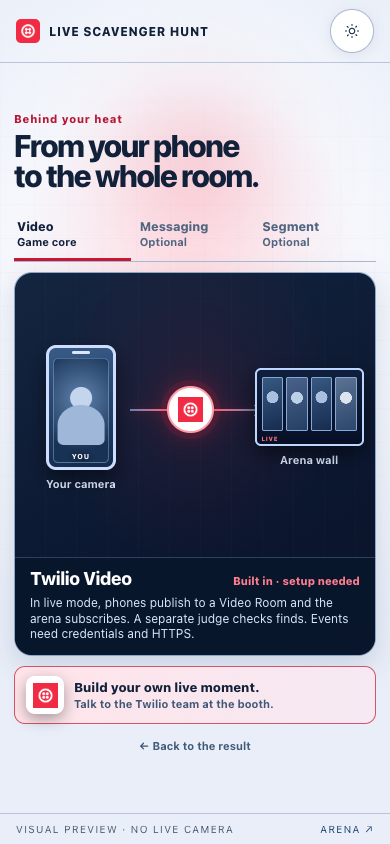
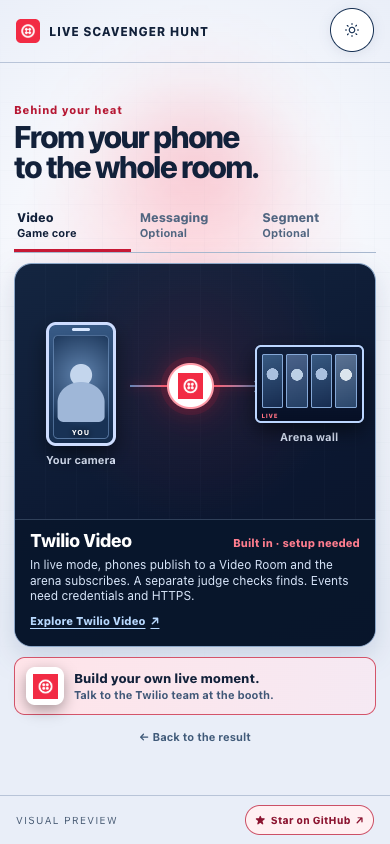
Add product learn-more and GitHub star links with click metrics

diff --git a/app/public/player.js b/app/public/player.js
@@ -8,6 +8,8 @@ const isResultDemo = ['win', 'lose', 'tie', 'no-match', 'build'].includes(demoMo
 const screen = document.getElementById('screen');
 const eventName = document.getElementById('eventName');
 const modeLabel = document.getElementById('modeLabel');
+const arenaFooterLink = document.getElementById('arenaFooterLink');
+const githubFooterLink = document.getElementById('githubFooterLink');
 const sessionDialog = document.getElementById('sessionDialog');
 for (const link of document.querySelectorAll('[data-arena-link]')) {
   link.href = arenaUrl;
@@ -62,8 +64,8 @@ const rosterPlayer = () => visibleRoster().find(entry => entry.id === app.player
 const hasSlot = () => Boolean(rosterPlayer()?.slot) && !['queued', 'left'].includes(app.player?.status);
 const phase = () => app.state?.phase || 'lobby';
 
-async function request(path, { method = 'GET', body, auth = false, headers = {} } = {}) {
-  const options = { method, headers: { ...headers }, credentials: 'same-origin' };
+async function request(path, { method = 'GET', body, auth = false, headers = {}, keepalive = false } = {}) {
+  const options = { method, headers: { ...headers }, credentials: 'same-origin', keepalive };
   if (auth && app.token) options.headers.Authorization = `Bearer ${app.token}`;
   if (body !== undefined) {
     if (body instanceof Blob) {
@@ -87,13 +89,14 @@ async function request(path, { method = 'GET', body, auth = false, headers = {} 
   return value;
 }
 
-function activity(type) {
+function activity(type, properties = {}) {
   if (isResultDemo) return;
   const onceKey = type === 'landing_opened' ? type : type === 'result_viewed' ? `${type}:${app.state?.heat}` : null;
   if (onceKey && app.activity.has(onceKey)) return;
   if (onceKey) app.activity.add(onceKey);
-  request('/activity', { method: 'POST', body: { type } }).catch(() => {});
+  request('/activity', { method: 'POST', body: { type, ...properties }, keepalive: true }).catch(() => {});
 }
+githubFooterLink.addEventListener('click', () => activity('github_cta_opened'));
 
 function applyState(payload) {
   if (!payload || !payload.state) return;
@@ -210,6 +213,7 @@ function resultMarkup(winners, heat) {
 const buildProducts = {
   video: {
     name: 'Twilio Video',
+    url: 'https://www.twilio.com/en-us/video',
     status: 'Built in · setup needed',
     detail: 'In live mode, phones publish to a Video Room and the arena subscribes. A separate judge checks finds. Events need credentials and HTTPS.',
     from: 'Your camera',
@@ -219,6 +223,7 @@ const buildProducts = {
   },
   messaging: {
     name: 'Twilio Messaging',
+    url: 'https://www.twilio.com/en-us/messaging/apis/programmable-messaging-api',
     status: 'Optional integration',
     detail: 'Spectators can vote by SMS or WhatsApp. Incoming replies reach the game as ballots through a webhook.',
     from: 'Crowd reply',
@@ -228,6 +233,7 @@ const buildProducts = {
   },
   segment: {
     name: 'Twilio Segment',
+    url: 'https://www.twilio.com/en-us/segment',
     status: 'Optional integration',
     detail: 'Play and interaction events can flow to Segment. The game’s own event report works without it.',
     from: 'Game signals',
@@ -249,7 +255,8 @@ function buildMarkup(lead) {
   const expert = lead.enabled && lead.expertEnabled ? `<button type="button" class="build-expert ${guide ? '' : 'is-primary'}" data-action="expert">Request a Twilio expert <span aria-hidden="true">↗</span></button>` : '';
   const replay = isResultDemo ? '<button type="button" class="build-replay" data-action="demo-result">← Back to the result</button>' : '<button type="button" class="build-replay" data-action="replay">Play another heat</button>';
   const invitation = guide || expert ? '<p>Want to make a moment like this?</p>' : '<div class="build-booth-invite"><span class="build-booth-mark"><img src="/assets/twilio-bug-official.png" alt=""></span><span><strong>Build your own live moment.</strong><small>Talk to the Twilio team at the booth.</small></span></div>';
-  return `<div class="build-story"><div class="build-intro"><p class="build-kicker">Behind your heat</p><h1>From your phone<br>to the whole room.</h1></div><div class="build-tabs" role="group" aria-label="Explore Twilio products">${tabs}</div><section class="build-panel" data-product="${app.buildProduct}" aria-label="${product.name} explanation">${flow}<div class="build-panel-copy"><div class="build-panel-heading"><h2>${product.name}</h2><span>${product.status}</span></div><p>${product.detail}</p></div></section><div class="build-next ${guide || expert ? '' : 'is-booth-only'}">${invitation}${guide}${expert}${replay}</div></div>`;
+  const learnMore = `<a class="build-product-link" data-twilio-product="${app.buildProduct}" href="${product.url}" target="_blank" rel="noopener noreferrer" aria-label="Explore ${product.name} on Twilio (opens in a new tab)">Explore ${product.name} <span aria-hidden="true">↗</span></a>`;
+  return `<div class="build-story"><div class="build-intro"><p class="build-kicker">Behind your heat</p><h1>From your phone<br>to the whole room.</h1></div><div class="build-tabs" role="group" aria-label="Explore Twilio products">${tabs}</div><section class="build-panel" data-product="${app.buildProduct}" aria-label="${product.name} explanation">${flow}<div class="build-panel-copy"><div class="build-panel-heading"><h2>${product.name}</h2><span>${product.status}</span></div><p>${product.detail}</p>${learnMore}</div></section><div class="build-next ${guide || expert ? '' : 'is-booth-only'}">${invitation}${guide}${expert}${replay}</div></div>`;
 }
 
 function preview() {
@@ -301,7 +308,13 @@ function render(force = false) {
   const customEventName = String(app.event.name || '').trim();
   eventName.textContent = customEventName.toUpperCase() === 'LIVE SCAVENGER HUNT' ? '' : customEventName;
   eventName.hidden = !eventName.textContent;
-  modeLabel.textContent = isResultDemo ? 'Visual preview · no live camera' : app.event.mediaMode === 'twilio' ? 'Powered by Twilio Video' : app.event.mediaMode === 'rehearsal' ? 'Local rehearsal · camera snapshots' : 'Waiting for booth setup';
+  const postGame = ['result', 'complete', 'build', 'lead', 'thanks'].includes(view);
+  const fullModeLabel = isResultDemo ? 'Visual preview · no live camera' : app.event.mediaMode === 'twilio' ? 'Powered by Twilio Video' : app.event.mediaMode === 'rehearsal' ? 'Local rehearsal · camera snapshots' : 'Waiting for booth setup';
+  const shortModeLabel = isResultDemo ? 'Visual preview' : app.event.mediaMode === 'twilio' ? 'Twilio Video' : app.event.mediaMode === 'rehearsal' ? 'Local rehearsal' : 'Booth setup';
+  modeLabel.textContent = postGame ? shortModeLabel : fullModeLabel;
+  modeLabel.setAttribute('aria-label', fullModeLabel);
+  arenaFooterLink.hidden = postGame;
+  githubFooterLink.hidden = !postGame;
   $('leaveButton').hidden = isResultDemo || !['queued', 'waiting', 'countdown', 'hunt', 'review'].includes(view);
 
   if (view === 'intro') {
@@ -666,6 +679,11 @@ screen.addEventListener('change', event => {
   if (event.target.name === 'marketingOptIn') app.leadDraft.marketingOptIn = event.target.checked;
 });
 screen.addEventListener('click', async event => {
+  const productLink = event.target.closest('[data-twilio-product]');
+  if (productLink) {
+    activity('twilio_product_link_opened', { product: productLink.dataset.twilioProduct });
+    return;
+  }
   const action = event.target.closest('[data-action]')?.dataset.action;
   if (!action) return;
   try {

diff --git a/app/public/player-build.css b/app/public/player-build.css
@@ -10,7 +10,7 @@
 .player-page .build-tab small { font-size: 11px; font-weight: 700; line-height: 1.2; }
 .player-page .build-tab.is-active { color: var(--paper); border-bottom-color: var(--red); }
 .player-page .build-tab:hover { color: #fff; }
-.player-page .build-tab:focus-visible, .player-page .build-guide:focus-visible, .player-page .build-expert:focus-visible, .player-page .build-replay:focus-visible { outline: 3px solid var(--red); outline-offset: 2px; }
+.player-page .build-tab:focus-visible, .player-page .build-guide:focus-visible, .player-page .build-expert:focus-visible, .player-page .build-replay:focus-visible, .player-page .build-product-link:focus-visible { outline: 3px solid var(--red); outline-offset: 2px; }
 .player-page .build-panel { flex: 1 1 auto; min-height: 0; display: flex; flex-direction: column; overflow: hidden; margin-top: 10px; border: 1px solid #9ebbe144; border-radius: 18px; background: linear-gradient(155deg, #142540 0%, #0b1730 62%, #0b1428 100%); box-shadow: inset 0 1px #ffffff1a, 0 16px 35px #0004; }
 .player-page .build-flow { flex: 1 1 auto; min-height: 0; display: flex; align-items: center; justify-content: space-between; padding: 13px 17px 8px; background: radial-gradient(ellipse 45% 68% at 50% 43%, #ef223a19, transparent 88%), repeating-linear-gradient(90deg, transparent 0, transparent 30px, #b7d0fa0a 31px); }
 .player-page .build-flow-end { flex: 0 0 30%; min-width: 0; min-height: 0; height: 100%; margin: 0; display: flex; flex-direction: column; align-items: center; justify-content: center; gap: 8px; }
@@ -46,6 +46,8 @@
 .player-page .build-panel-heading span { flex: none; color: #ff7d8e; font-size: 11px; font-weight: 800; line-height: 1.1; }
 .player-page .build-panel:not([data-product="video"]) .build-panel-heading span { color: #9ac9ff; }
 .player-page .build-panel-copy p { margin: 6px 0 0; color: #d7e5f9; font-size: 12px; line-height: 1.3; }
+.player-page .build-product-link { display: inline-flex; align-items: center; gap: 5px; min-height: 24px; margin-top: 5px; color: #b8d9ff; font-size: 11px; font-weight: 800; line-height: 1.15; text-decoration: underline; text-underline-offset: 3px; }
+.player-page .build-product-link:hover { color: #fff; }
 .player-page .build-next { flex: none; display: grid; grid-template-columns: minmax(0, 1fr) auto; align-items: center; column-gap: 10px; row-gap: 4px; margin-top: 10px; }
 .player-page .build-next p { grid-column: 1 / -1; margin: 0 0 2px; color: var(--paper); font-size: 13px; font-weight: 800; }
 .player-page .build-booth-invite { grid-column: 1 / -1; min-width: 0; display: flex; align-items: center; gap: 10px; padding: 9px 11px; border: 1px solid #ff6a7c88; border-radius: 11px; background: linear-gradient(105deg, #8e193743, #4f17372d); }
@@ -71,7 +73,7 @@
   .player-page .build-flow-end { gap: 3px; }.player-page .build-flow-end figcaption { font-size: 10px; }
   .player-page .build-phone { width: 43px; }.player-page .build-arena-mini { width: 72px; }
   .player-page .build-message-mini, .player-page .build-ballot-mini, .player-page .build-events-mini, .player-page .build-chart-mini { scale: .86; }
-  .player-page .build-panel-copy { padding: 7px 10px 8px; }.player-page .build-panel-heading h2 { font-size: 15px; }.player-page .build-panel-heading span { font-size: 11px; }.player-page .build-panel-copy p { margin-top: 4px; font-size: 11.5px; line-height: 1.28; }
+  .player-page .build-panel-copy { padding: 7px 10px 8px; }.player-page .build-panel-heading h2 { font-size: 15px; }.player-page .build-panel-heading span { font-size: 11px; }.player-page .build-panel-copy p { margin-top: 4px; font-size: 11.5px; line-height: 1.28; }.player-page .build-product-link { min-height: 20px; margin-top: 3px; font-size: 10.5px; }
   .player-page .build-next { margin-top: 6px; row-gap: 2px; }.player-page .build-next p { font-size: 12px; }.player-page .build-guide, .player-page .build-expert.is-primary { min-height: 42px; padding-block: 7px; font-size: 12px; }.player-page .build-expert, .player-page .build-replay { min-height: 28px; font-size: 11.5px; }
   .player-page .build-booth-invite { gap:8px; padding:6px 8px; }.player-page .build-booth-mark { width:31px; height:31px; border-radius:7px; }.player-page .build-booth-mark img { width:21px; height:21px; }.player-page .build-booth-invite strong { font-size:12px; }.player-page .build-booth-invite small { font-size:10px; }
 }

diff --git a/app/public/metrics.js b/app/public/metrics.js
@@ -124,7 +124,7 @@ function uniquePeople(rows, keys = ["participantId", "playerId", "sessionId"]) {
   });
   return people.size;
 }
-const engagementTypes = new Set(["player_joined", "result_viewed", "cta_opened", "lead_form_opened", "lead_submitted", "vote_accepted"]);
+const engagementTypes = new Set(["player_joined", "result_viewed", "cta_opened", "guide_cta_opened", "expert_cta_opened", "twilio_product_link_opened", "github_cta_opened", "lead_form_opened", "lead_submitted", "vote_accepted"]);
 function buildSummary(records, leads) {
   const byType = type => records.filter(row => row.type === type);
   const landings = byType("landing_opened"), joins = byType("player_joined"), heatStarts = byType("heat_started"), heatEnds = byType("heat_completed");
@@ -170,9 +170,18 @@ function buildSummary(records, leads) {
   });
   const durations = verified.map(row => Number(row.properties.timeToMatchMs)).filter(value => Number.isFinite(value) && value >= 0);
   const uniqueVisitors = uniquePeople(landings), uniquePlayers = uniquePeople(joins);
+  const productLinkRows = byType("twilio_product_link_opened");
+  const twilioProductLinkClicks = productLinkRows.length;
+  const twilioProductLinkClicksByProduct = { video: 0, messaging: 0, segment: 0 };
+  productLinkRows.forEach(row => {
+    const product = row.properties.product;
+    if (Object.hasOwn(twilioProductLinkClicksByProduct, product)) twilioProductLinkClicksByProduct[product]++;
+  });
+  const githubRepoClicks = byType("github_cta_opened").length;
   return {
     totalEvents: records.length, uniqueVisitors, uniquePlayers,
     engagementActions: records.filter(row => engagementTypes.has(row.type)).length,
+    twilioProductLinkClicks, twilioProductLinkClicksByProduct, githubRepoClicks,
     playerEntries,
     heatsCompleted: new Set(heatEnds.map(row => `${row.eventId}:${row.properties.heatId || row.id}`)).size,
     averagePlayers: heatStarts.length ? playerEntries / heatStarts.length : 0,
@@ -194,6 +203,8 @@ function buildSummary(records, leads) {
       { label: "Joined", count: uniquePlayers },
       { label: "Saw result", count: uniquePeople(resultViews) },
       { label: "Opened CTA", count: uniquePeople(ctaOpens) },
+      { label: "Twilio pages", count: twilioProductLinkClicks, title: "Clicks on official Twilio product pages" },
+      { label: "GitHub repo", count: githubRepoClicks, title: "Clicks to open the GitHub repository; stars are not tracked" },
       { label: "Left lead", count: uniqueLeads },
     ],
   };
@@ -244,6 +255,7 @@ function renderFunnel(summary) {
   const max = Math.max(1, ...summary.funnel.map(row => row.count));
   for (const row of summary.funnel) {
     const element = make("div", "funnel-row"), track = make("div", "funnel-track"), fill = make("div", "funnel-fill");
+    if (row.title) element.title = row.title;
     fill.style.width = `${row.count / max * 100}%`;
     track.append(fill); element.append(make("span", "", row.label), track, make("strong", "", number(row.count))); host.append(element);
   }
@@ -254,6 +266,7 @@ function renderOverview(summary) {
   setText("kpi-players", number(summary.uniquePlayers));
   setText("kpi-actions", number(summary.engagementActions));
   setText("kpi-leads", number(state.leads.length));
+  for (const product of ["video", "messaging", "segment"]) setText(`product-${product}-clicks`, number(summary.twilioProductLinkClicksByProduct[product]));
   renderChart(summary); renderFunnel(summary);
 }
 function pageSize(kind) {

diff --git a/app/public/metrics.html b/app/public/metrics.html
@@ -43,12 +43,12 @@
           <div class="kpi-grid">
             <div class="kpi primary"><span class="kpi-label">LANDING SESSIONS</span><strong id="kpi-visitors">0</strong><small>anonymous page opens</small></div>
             <div class="kpi"><span class="kpi-label">UNIQUE JOINERS</span><strong id="kpi-players">0</strong><small>joined at least once</small></div>
-            <div class="kpi" title="Joins, result views, CTA opens, lead-form opens, lead submissions, and accepted votes. Landing page opens are excluded."><span class="kpi-label">ENGAGEMENT ACTIONS</span><strong id="kpi-actions">0</strong><small>post-landing interactions</small></div>
+            <div class="kpi" title="Joins, result views, CTA opens, Twilio page clicks, GitHub repo clicks, lead-form opens, lead submissions, and accepted votes. Landing page opens are excluded."><span class="kpi-label">ENGAGEMENT ACTIONS</span><strong id="kpi-actions">0</strong><small>post-landing interactions</small></div>
             <div class="kpi"><span class="kpi-label">LEADS</span><strong id="kpi-leads">0</strong><small>requested contact</small></div>
           </div>
           <div class="overview-lower">
             <section class="surface trend-surface" aria-labelledby="trend-heading"><div class="surface-head"><div><span class="eyebrow">THE CROWD OVER TIME</span><h2 id="trend-heading">Daily activity</h2></div><div class="legend"><i></i><span class="legend-prefix">Player joins · </span><span id="chart-scope">7-day view</span></div></div><div id="activity-chart" class="activity-chart"></div><div id="chart-axis" class="chart-axis"></div></section>
-            <section class="surface funnel-surface" aria-labelledby="funnel-heading"><div class="surface-head"><div><span class="eyebrow">FROM INTEREST TO INTENT</span><h2 id="funnel-heading">Visitor journey</h2></div><span id="funnel-rate" class="small-stat">0% lead rate</span></div><div id="funnel-rows" class="funnel-rows"></div><p class="surface-foot">Counts use anonymous browser sessions where available.</p></section>
+            <section class="surface funnel-surface" aria-labelledby="funnel-heading"><div class="surface-head"><div><span class="eyebrow">FROM INTEREST TO INTENT</span><h2 id="funnel-heading">Visitor journey</h2></div><span id="funnel-rate" class="small-stat">0% lead rate</span></div><div id="funnel-rows" class="funnel-rows"></div><div class="surface-foot outbound-foot"><span class="outbound-note">Journey stages use anonymous sessions; outbound links count clicks.</span><div class="product-link-breakdown" title="Clicks on official Twilio product pages, grouped by product"><span>VIDEO <strong id="product-video-clicks">0</strong></span><span>MESSAGING <strong id="product-messaging-clicks">0</strong></span><span>SEGMENT <strong id="product-segment-clicks">0</strong></span></div></div></section>
           </div>
         </section>
 

diff --git a/app/public/player.html b/app/public/player.html
@@ -38,7 +38,7 @@
   <div class="app">
     <header class="top"><a class="brand" href="#" data-arena-link aria-label="Live Scavenger Hunt arena"><img src="/assets/twilio-bug-official.png" alt="Twilio"><span>LIVE SCAVENGER HUNT</span></a><div class="top-controls"><div class="event-label" id="eventName" hidden></div><button type="button" class="leave-game" id="leaveButton" hidden>Leave</button><button type="button" class="theme-toggle" data-theme-toggle></button></div></header>
     <main><div class="screen" id="screen" aria-live="polite"></div></main>
-    <footer class="bottom"><span id="modeLabel">Connecting to the arena</span><a href="#" data-arena-link>Arena ↗</a></footer>
+    <footer class="bottom"><span id="modeLabel">Connecting to the arena</span><a id="arenaFooterLink" href="#" data-arena-link>Arena ↗</a><a id="githubFooterLink" class="github-footer-link" href="https://github.com/anthonyplusAI/twilio-live-scavenger-hunt" target="_blank" rel="noopener noreferrer" aria-label="Star Live Scavenger Hunt on GitHub (opens in a new tab)" hidden><span aria-hidden="true">★</span><span>Star on GitHub</span><span aria-hidden="true">↗</span></a></footer>
     <dialog id="sessionDialog" class="session-dialog" aria-labelledby="sessionDialogTitle" aria-describedby="sessionDialogText"><p class="session-dialog-kicker">Your player spot</p><h2 id="sessionDialogTitle">Leave the game?</h2><p id="sessionDialogText">Your camera will turn off and your spot will open for another player.</p><p id="sessionDialogCountdown" class="session-dialog-countdown" hidden></p><div class="session-dialog-actions"><button type="button" id="sessionStayButton" class="primary">Keep playing</button><button type="button" id="sessionLeaveButton" class="secondary">Leave game</button></div></dialog>
   </div>
   <script type="module" src="/player.js"></script>

diff --git a/app/public/game.css b/app/public/game.css
@@ -4,6 +4,9 @@
 .player-page .bottom { overflow: hidden; }
 .player-page #modeLabel { min-width: 0; overflow: hidden; text-overflow: ellipsis; white-space: nowrap; }
 .player-page .bottom a { flex: none; }
+.player-page .bottom .github-footer-link { display: inline-flex; align-items: center; justify-content: center; gap: 5px; min-height: 30px; padding: 5px 9px; border: 1px solid #ff7f8e8f; border-radius: 999px; background: #ef223a1c; color: #fff1f3; font-size: 10px; font-weight: 800; letter-spacing: .02em; line-height: 1; text-transform: none; transition: border-color .18s, background .18s, transform .18s; }
+.player-page .bottom .github-footer-link:hover { border-color: #ffabb5; background: #ef223a3a; transform: translateY(-1px); }
+.player-page .bottom .github-footer-link[hidden] { display: none; }
 .player-page .intro-title { font-size: clamp(38px, 9.5vw, 65px); line-height: .94; letter-spacing: -.06em; }
 .player-page .player-visual {
   width: min(100%, 256px);
@@ -235,6 +238,8 @@ html[data-theme="light"] .player-page .app::after { background: radial-gradient(
 html[data-theme="light"] .player-page .top,
 html[data-theme="light"] .player-page .bottom { border-color: #b8c4d8; }
 html[data-theme="light"] .player-page .bottom a { color: #1d436f; }
+html[data-theme="light"] .player-page .bottom .github-footer-link { border-color: #cc5066; background: #fff0f2; color: #8b1430; }
+html[data-theme="light"] .player-page .bottom .github-footer-link:hover { background: #ffe2e8; border-color: #ab1d37; }
 html[data-theme="light"] .player-page .eyebrow { color: #a4142c; }
 html[data-theme="light"] .player-page .sub { color: #394d69; }
 html[data-theme="light"] .player-page .caption,

diff --git a/app/public/metrics.css b/app/public/metrics.css
@@ -101,3 +101,9 @@ html[data-theme="light"] .vote-choice-row .choice-type{color:#47698d}
 .top-actions .theme-toggle{flex:none}
 @media(max-width:760px){.top-actions .theme-toggle__label{display:none}.top-actions .theme-toggle{width:42px;min-width:42px;padding:0}}
 @media(max-width:480px){.heading .eyebrow{display:none}.heading h1{margin-top:0;font-size:25px}}
+.funnel-surface .outbound-foot{display:flex;flex-direction:column;align-items:stretch;gap:4px;padding-top:7px;margin-top:5px}
+.outbound-note{font-size:10px;line-height:1.1;color:var(--dim)}
+.product-link-breakdown{display:flex;align-items:center;justify-content:space-between;gap:8px;white-space:nowrap;font-size:10px;letter-spacing:.05em;color:var(--muted)}
+.product-link-breakdown strong{margin-left:3px;color:var(--text);font-variant-numeric:tabular-nums}
+@media(max-width:760px){.funnel-surface .outbound-foot{gap:2px;padding-top:3px;margin-top:2px}.outbound-note{font-size:7px}.product-link-breakdown{font-size:7px;gap:4px}}
+@media(max-height:640px) and (max-width:760px){.overview-lower{grid-template-rows:minmax(0,.4fr) minmax(0,.6fr)}.funnel-surface .outbound-foot{display:flex;gap:2px;padding-top:3px;margin-top:2px}.outbound-note{font-size:8px}.product-link-breakdown{font-size:8px;gap:3px}.funnel-rows{gap:1px}.funnel-row span,.funnel-row strong{font-size:9px}}

diff --git a/README.md b/README.md
@@ -13,6 +13,8 @@ A live camera race that turns an expo booth into a moment the whole crowd can wa
   <strong>Optional audience voting</strong>
 </p>
 
+<p align="center"><a href="https://github.com/anthonyplusAI/twilio-live-scavenger-hunt"><strong>★ Star the project on GitHub</strong></a></p>
+
 ![Four-player Live Scavenger Hunt arena preview](docs/visuals/live-scavenger-hunt-arena-4-players.png)
 
 <p align="center"><em>Illustrated arena preview. In a configured live event, each portrait spot carries that player's phone camera.</em></p>
@@ -31,14 +33,14 @@ A visitor scans the arena QR code, picks a screen name, consents to appear on th
 
 Then everyone races to show the requested color, object, shape, printed tech word, or creative find. Simple color prompts can be checked from repeated camera frames. Other prompts can use optional AI vision or a booth operator's judgment. The operator can award one winner, several winners in a tie, or no match. The result lands on the arena **and** each player's phone.
 
-Spectators can take part through a web ballot. With configured senders, SMS or WhatsApp ballots can steer the next challenge category or vote on a creative round. After playing, visitors can follow a visual phone-to-arena product story, explore optional Messaging and Segment features, and voluntarily request a guide or a conversation with the booth team. Joining and voting never require a lead form.
+Spectators can take part through a web ballot. With configured senders, SMS or WhatsApp ballots can steer the next challenge category or vote on a creative round. After playing, visitors can follow a visual phone-to-arena product story, open official Twilio pages for each featured product, and voluntarily request a guide or a conversation with the booth team. A **Star on GitHub** link stays in the phone footer after the heat, while the arena remains focused on its scan-to-play QR. Joining and voting never require a lead form.
 
 | Booth moment | What the app does |
 | --- | --- |
 | **Draw a crowd** | A large, responsive arena shows 2–6 portrait player spots, a prominent scan-to-play QR, a shared clock, and a synchronized result reveal. |
 | **Keep the race fair** | The server seals the prompt until GO. Start rules and timers are set per event; an operator can start a ready heat manually. |
 | **Keep staff in control** | Operators can pause, choose a prompt, judge or correct a result, award ties, and remove a player from the live heat or queue. |
-| **Measure engagement** | Private reports filter by event and date and cover joins, plays, heats, votes, CTA activity, leads, player exits, and removals. |
+| **Measure engagement** | Private reports filter by event and date and cover joins, plays, heats, votes, product and GitHub link clicks, leads, player exits, and removals. |
 | **Adapt to the event** | Each event has its own URL, prompt deck, player limits, start rules, voting settings, and lead form. Every screen offers light/dark mode; the arena keeps its display controls hidden until staff interact. |
 
 ## See the moment
@@ -53,8 +55,8 @@ These are **visual previews with illustrated stand-ins**, captured from the runn
   </tr>
   <tr><th>Phone · winner</th><th>Phone · not this round</th></tr>
   <tr>
-    <td align="center"><img src="docs/visuals/live-scavenger-hunt-phone-win.png" alt="Winner celebration on a player phone" width="300"></td>
-    <td align="center"><img src="docs/visuals/live-scavenger-hunt-phone-lose.png" alt="Phone clearly says not this round and names the winning player" width="300"></td>
+    <td align="center"><img src="docs/visuals/live-scavenger-hunt-phone-win.png" alt="Winner celebration on a player phone, with a Star on GitHub link in the footer" width="300"></td>
+    <td align="center"><img src="docs/visuals/live-scavenger-hunt-phone-lose.png" alt="Phone clearly says not this round, names the winner, and shows the GitHub star link" width="300"></td>
   </tr>
 </table>
 
@@ -66,17 +68,19 @@ The wall also rearranges for traffic at the booth:
 
 The arena stays in show mode: only the Twilio identity and heat status remain at the top. Moving a pointer, touching the screen, or pressing Tab reveals Operator, theme, and media controls for staff; the strip hides again after five seconds of inactivity.
 
-After starting the app, open the read-only [four-player hunt](http://127.0.0.1:65111/e/live-scavenger-hunt/arena?demo=hunt&players=4), [arena win](http://127.0.0.1:65111/e/live-scavenger-hunt/arena?demo=win), [arena loss](http://127.0.0.1:65111/e/live-scavenger-hunt/arena?demo=lose), [phone win](http://127.0.0.1:65111/e/live-scavenger-hunt/play?demo=win), [phone loss](http://127.0.0.1:65111/e/live-scavenger-hunt/play?demo=lose), or [product story](http://127.0.0.1:65111/e/live-scavenger-hunt/play?demo=build) preview. Use **Replay reveal** on a result screen to watch the animation again. Preview URLs do not start a heat, connect a camera, judge a player, collect leads, or write metrics.
+After starting the app, open the read-only [four-player hunt](http://127.0.0.1:65111/e/live-scavenger-hunt/arena?demo=hunt&players=4), [arena win](http://127.0.0.1:65111/e/live-scavenger-hunt/arena?demo=win), [arena loss](http://127.0.0.1:65111/e/live-scavenger-hunt/arena?demo=lose), [phone win](http://127.0.0.1:65111/e/live-scavenger-hunt/play?demo=win), [phone loss](http://127.0.0.1:65111/e/live-scavenger-hunt/play?demo=lose), or [product story](http://127.0.0.1:65111/e/live-scavenger-hunt/play?demo=build) preview. Use **Replay reveal** on a result screen to watch the animation again. Preview URLs do not start a heat, connect a camera, judge a player, collect leads, or write metrics; their outbound links still open the linked sites.
 
 ## Twilio product story
 
 The post-heat CTA opens a one-screen visual explanation: a phone camera reaches the arena through **Twilio Video** in a configured live event. Visitors can tap **Messaging** to see how SMS or WhatsApp ballots work, or **Segment** to see how game activity becomes engagement data. The screen keeps optional integrations distinct from the core Video path.
 
+Each product panel links to its official Twilio page: [Video](https://www.twilio.com/en-us/video), [Programmable Messaging](https://www.twilio.com/en-us/messaging/apis/programmable-messaging-api), or [Segment](https://www.twilio.com/en-us/segment). The phone's **Star on GitHub** link remains visible after the result, including while visitors explore the build story or request a follow-up.
+
 <table>
   <tr><th>Dark display</th><th>Light display</th></tr>
   <tr>
-    <td align="center"><img src="docs/visuals/live-scavenger-hunt-phone-product-story.png" alt="Dark phone product story showing a camera, Twilio Video connection, and arena wall" width="300"></td>
-    <td align="center"><img src="docs/visuals/live-scavenger-hunt-phone-product-story-light.png" alt="Light phone product story with the same Twilio Video visual explanation" width="300"></td>
+    <td align="center"><img src="docs/visuals/live-scavenger-hunt-phone-product-story.png" alt="Dark phone product story with a camera-to-arena diagram, Twilio Video learn-more link, and GitHub star link" width="300"></td>
+    <td align="center"><img src="docs/visuals/live-scavenger-hunt-phone-product-story-light.png" alt="Light phone product story with the same Twilio Video and GitHub links" width="300"></td>
   </tr>
 </table>
 
@@ -122,7 +126,7 @@ Run `npm run check` for the browser build, server tests, and README link check. 
 
 ## Metrics and leads
 
-The admin-only Metrics view filters by event and date range, shows the engagement funnel, and exports filtered event or lead CSV. Local reports persist in SQLite even when Segment is not configured. Lead capture can be switched off per event; when on, an admin chooses up to eight fields and which are required. The guide and expert CTAs are optional. Marketing updates require a separate, unchecked choice.
+The admin-only Metrics view filters by event and date range, shows the engagement funnel and outbound **Twilio page** and **GitHub repo** click counts, and exports filtered event or lead CSV. Twilio page clicks are also broken down by Video, Messaging, and Segment. These counts record link clicks, not confirmed page loads or GitHub stars. Local reports persist in SQLite even when Segment is not configured. Lead capture can be switched off per event; when on, an admin chooses up to eight fields and which are required. The guide and expert CTAs are optional. Marketing updates require a separate, unchecked choice.
 
 The app stores event configuration, heat history, votes, metrics, and requested leads in SQLite. Video is not recorded by this app, and camera evidence JPEGs are kept briefly in memory rather than saved to the database. Lead retention is configurable per event.
 

diff --git a/docs/runbook.md b/docs/runbook.md
@@ -60,7 +60,9 @@ A player can tap **Leave** while queued or playing and confirm the choice. Their
 
 For a disruptive player, open **Manage players** on the operator live desk. Choose a player in the current heat or next-heat queue and confirm **Remove player**. The server clears their slot, invalidates their current player token, removes them from judging and creative ballots, records `player_kicked`, and attempts to disconnect them from the Twilio Video Room. The command response reports `mediaDisconnect.status` as `ok` or `failed`; a failure needs a booth-staff check of the room. Removing a winner during the result corrects the stored award. This is session-level removal: a person can join again with a new browser session, so continue to monitor the wall.
 
-The arena can be reviewed with `?demo=hunt&players=4` or `players=6`, plus `?demo=win|lose|tie|no-match` for results. The phone accepts `?demo=win|lose|tie|no-match|build`. Result previews have a **Replay reveal** control. These fixtures do not join a room, open a heat, judge a player, collect leads, or write metrics. The phone product story uses selectable Video, Messaging, and Segment explanations; Video describes the built live-event path, while the other two are optional integrations. Do a separate real heat rehearsal before the event.
+The arena can be reviewed with `?demo=hunt&players=4` or `players=6`, plus `?demo=win|lose|tie|no-match` for results. The phone accepts `?demo=win|lose|tie|no-match|build`. Result previews have a **Replay reveal** control. These fixtures do not join a room, open a heat, judge a player, collect leads, or write metrics. Do a separate real heat rehearsal before the event.
+
+The phone product story uses selectable Video, Messaging, and Segment explanations; Video describes the built live-event path, while the other two are optional integrations. Each panel has an **Explore** link that opens an official Twilio product page in a new tab. A **Star on GitHub** link stays in the phone footer on post-heat result, complete, build story, lead, and thank-you screens; it stays off the active game screen and arena wall. Preview links still navigate, but preview clicks are not recorded as event activity.
 
 ## 4. Connect Twilio Video
 
@@ -90,7 +92,9 @@ Keep all keys on the server. Never place them in browser JavaScript or commit `.
 
 ## 7. Metrics, leads, and data care
 
-The private Metrics screen filters by event and date. A single-event range uses that event's IANA time zone; an all-events range uses UTC. It reports joins, heats, results, votes, funnel activity, lead requests, player leaves, timed-out sessions, and operator removals; it can export filtered event or lead CSV. The report summary exposes `playerLeaves`, `timedOutPlayers`, and `kickedPlayers` separately. CSV cells are escaped against spreadsheet formula execution. Admins see leads; operators may run heats but cannot open private reports. Lead capture can be disabled per event; when enabled, an admin chooses up to eight fields and their required flags. The build-guide option requires a required email field; an expert request may use email or phone. Every submission saves the field definition that visitor saw, so later form edits do not rewrite earlier leads. Joining and voting never require the lead form. The expert CTA saves a requested follow-up; it does not place a call.
+The private Metrics screen filters by event and date. A single-event range uses that event's IANA time zone; an all-events range uses UTC. It reports joins, heats, results, votes, funnel activity, lead requests, player leaves, timed-out sessions, operator removals, and outbound Twilio page and GitHub repo clicks; it can export filtered event or lead CSV. The report summary exposes `playerLeaves`, `timedOutPlayers`, `kickedPlayers`, `twilioProductLinkClicks`, `twilioProductLinkClicksByProduct: {video,messaging,segment}`, and `githubRepoClicks` separately. These outbound counts reflect clicks in real sessions, not confirmed destination page loads or GitHub stars. CSV cells are escaped against spreadsheet formula execution.
+
+Admins see leads; operators may run heats but cannot open private reports. Lead capture can be disabled per event; when enabled, an admin chooses up to eight fields and their required flags. The build-guide option requires a required email field; an expert request may use email or phone. Every submission saves the field definition that visitor saw, so later form edits do not rewrite earlier leads. Joining and voting never require the lead form. The expert CTA saves a requested follow-up; it does not place a call.
 
 The app keeps SQLite in `app/data/` by default. Lead retention defaults to **90 days** and can be set per event; the server prunes expired leads hourly. Activity records are retained until the database is deliberately archived or deleted. The anonymous vote secret is generated and stored in SQLite unless `VOTE_HMAC_SECRET` is set. Keep the secret stable across restores. Back up the database to encrypted storage and test a restore before the event; for a simple file copy, stop the app first so the SQLite/WAL files form a consistent snapshot. Restrict database and export access to staff who need it, and delete individual leads through the admin API when required.
 

diff --git a/docs/full-app-api.md b/docs/full-app-api.md
@@ -4,7 +4,7 @@ This is the contract for `app/`. All times are UTC ISO strings or epoch millisec
 
 ## Browser routes
 
-`/e/:slug/arena`, `/e/:slug/play`, `/e/:slug/vote`, `/e/:slug/operator`, `/e/:slug/metrics`, and `/login`. The operator and metrics pages may load publicly, but their data and actions require an authenticated session. `/` redirects to the seeded event arena. The arena accepts `?demo=hunt` with an optional `players` value from 2 to 6, plus `?demo=win|lose|tie|no-match`; the phone accepts `?demo=win|lose|tie|no-match|build`. These local visual previews do not join a heat, connect media, judge, collect leads, or write activity.
+`/e/:slug/arena`, `/e/:slug/play`, `/e/:slug/vote`, `/e/:slug/operator`, `/e/:slug/metrics`, and `/login`. The operator and metrics pages may load publicly, but their data and actions require an authenticated session. `/` redirects to the seeded event arena. The arena accepts `?demo=hunt` with an optional `players` value from 2 to 6, plus `?demo=win|lose|tie|no-match`; the phone accepts `?demo=win|lose|tie|no-match|build`. These local visual previews do not join a heat, connect media, judge, collect leads, or write activity. Their outbound product and GitHub links still navigate.
 
 ## Public state
 
@@ -27,7 +27,7 @@ This is the contract for `app/`. All times are UTC ISO strings or epoch millisec
 | `POST /api/e/:slug/frame` | Player bearer token, `image/jpeg` body, max 150 KB | `{ok:true}`; rehearsal frames and evidence only, rate-limited. |
 | `POST /api/e/:slug/votes` | `{windowId,choice}`; anonymous voter cookie | `{accepted:true,vote}` or `409` duplicate/closed. A vote never creates a lead. |
 | `POST /api/e/:slug/leads` | Player bearer token, `{intent:"guide"|"expert",fieldValues,marketingOptIn}` | `{leadId,deliveryStatus}`; validates event's current form and stores its field snapshot. |
-| `POST /api/e/:slug/activity` | `{type}` from an allowlist | `{ok:true}`. Contact fields are rejected. |
+| `POST /api/e/:slug/activity` | `{type}` from an allowlist. `twilio_product_link_opened` also requires `product:"video"|"messaging"|"segment"`; `github_cta_opened` uses `{type}` only. | `{ok:true}`. Contact fields are rejected. |
 
 After an operator removes a player, that token receives HTTP `403` with `code: "player_kicked"` on authenticated player routes. The phone turns off its camera and shows a removal screen. Missing, left, or expired player tokens receive `401`. The server also marks stale sessions left when heartbeats stop: about 25 seconds for waiting/queued players and 60 seconds during a heat.
 
@@ -54,6 +54,6 @@ The operator state also includes a five-heat `recentHeats` list with prompt, pla
 
 `kickPlayer` takes `payload: {playerId}` for a current-heat or queued player. It clears the slot, invalidates the token, records `player_kicked`, and removes that player from candidates and creative ballots. If the player had already won the displayed result, the stored winner list is corrected. Its response adds `mediaDisconnect: {status:"ok",mode,disconnected}` on a successful Twilio disconnect attempt or `{status:"failed"}` if the media operation fails; the player is removed from the game in either case.
 
-The private report summary includes `kickedPlayers`, `timedOutPlayers`, and `playerLeaves` alongside joins, plays, heats, votes, CTA activity, and leads. These are distinct activity counts within the requested event/date filter.
+The private report summary includes `kickedPlayers`, `timedOutPlayers`, `playerLeaves`, `twilioProductLinkClicks`, `twilioProductLinkClicksByProduct: {video,messaging,segment}`, and `githubRepoClicks` alongside joins, plays, heats, votes, CTA activity, and leads. These are distinct activity counts within the requested event/date filter. The outbound link fields count clicks, not verified destination page loads or GitHub stars; corresponding activity events appear in the filtered event log and export.
 
 Twilio signed webhooks live at `/webhooks/twilio/messaging` and `/webhooks/twilio/video`. They validate the exact public URL and `X-Twilio-Signature`, then deduplicate message/event IDs before changing state or metrics.
